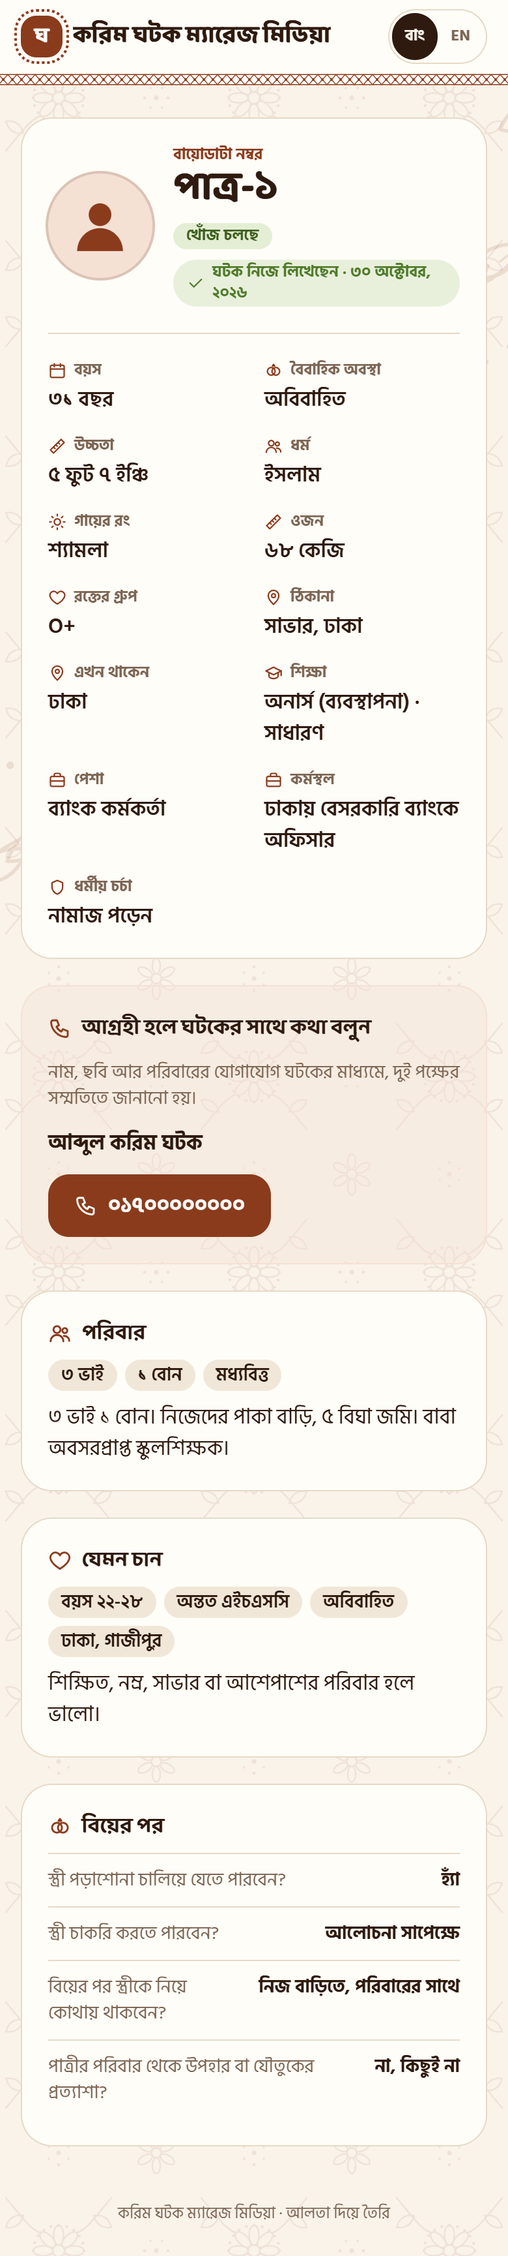
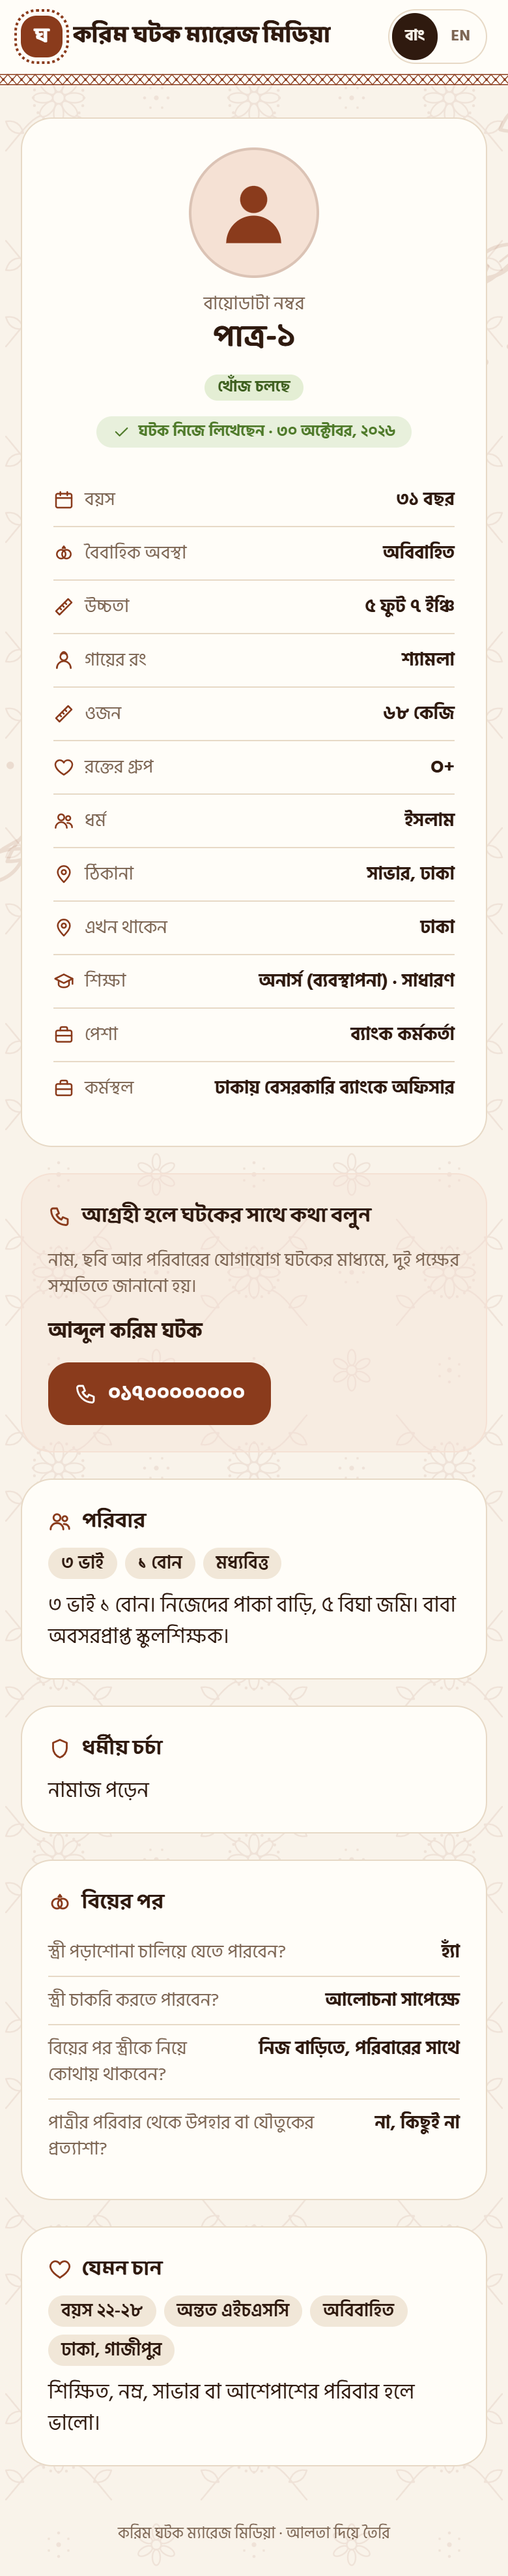
Revert "style: the family's biodata view reads at a glance"
This reverts commit af5ddd22b74a9989cfe3493edfc7c3aa593ae40e.

diff --git a/components/biodata.tsx b/components/biodata.tsx
@@ -81,64 +81,57 @@ export function BiodataFormAside({ site, t }: { site: PublicSite | null; t: T })
 }
 
 /**
- * A biodata as a family sees it. First a summary card: the number, the status, the ghotok's check, and every fact
- * in a grid that reads at a glance. Then the family's own words: family, the match hoped for, the "after marriage"
- * answers. Whatever the page passes as `aside` (how to reach the ghotok) sits right under the summary on a phone and
- * stays in view down the right on a wide screen. Used by the public link and the signed-in view.
+ * A biodata as a family sees it: a card with the number, the ghotok's check and the facts asked first, then the
+ * family, religious practice, the "after marriage" answers and the match hoped for, then whatever the page puts
+ * beside it (how to reach the ghotok). Used by the public link and the signed-in view.
  */
 export function FamilyBiodata({ b, t, aside }: { b: FamilyView; t: T; aside?: ReactNode }) {
-  const facts: { icon: IconName; label: string; value: string; wide?: boolean }[] = [
-    { icon: "calendar", label: t.t("facts.age"), value: t.years(ageFromYear(b.birthYear)) },
-    { icon: "rings", label: t.t("facts.marital"), value: t.t(`marital.${b.maritalStatus}`) },
-    { icon: "ruler", label: t.t("facts.height"), value: b.heightCm ? t.height(b.heightCm) : "" },
-    { icon: "people", label: t.t("facts.religion"), value: t.t(`religion.${b.religion}`) },
-    { icon: "sun", label: t.t("facts.complexion"), value: b.complexion ? t.t(`complexion.${b.complexion}`) : "" },
-    { icon: "ruler", label: t.t("facts.weight"), value: b.weightKg ? t.t("facts.kg", { n: b.weightKg }) : "" },
-    { icon: "heart", label: t.t("facts.blood"), value: b.bloodGroup ?? "" },
-    { icon: "location", label: t.t("facts.address"), value: [b.upazila, b.district].filter(Boolean).join(", ") },
-    { icon: "location", label: t.t("facts.presentAddress"), value: b.presentAddress ?? "" },
-    { icon: "school", label: t.t("facts.education"), value: [b.education, b.educationMedium ? t.t(`medium.${b.educationMedium}`) : null].filter(Boolean).join(" · ") },
-    { icon: "briefcase", label: t.t("facts.profession"), value: b.profession ?? "" },
-    { icon: "briefcase", label: t.t("facts.workplace"), value: b.workplace ?? "" },
-    { icon: "shield", label: t.t("facts.religiousPractice"), value: b.religiousPractice ?? "", wide: true },
+  const facts: [IconName, string, string][] = [
+    ["calendar", t.t("facts.age"), t.years(ageFromYear(b.birthYear))],
+    ["rings", t.t("facts.marital"), t.t(`marital.${b.maritalStatus}`)],
+    ["ruler", t.t("facts.height"), b.heightCm ? t.height(b.heightCm) : ""],
+    ["bride", t.t("facts.complexion"), b.complexion ? t.t(`complexion.${b.complexion}`) : ""],
+    ["ruler", t.t("facts.weight"), b.weightKg ? t.t("facts.kg", { n: b.weightKg }) : ""],
+    ["heart", t.t("facts.blood"), b.bloodGroup ?? ""],
+    ["people", t.t("facts.religion"), t.t(`religion.${b.religion}`)],
+    ["location", t.t("facts.address"), [b.upazila, b.district].filter(Boolean).join(", ")],
+    ["location", t.t("facts.presentAddress"), b.presentAddress ?? ""],
+    ["school", t.t("facts.education"), [b.education, b.educationMedium ? t.t(`medium.${b.educationMedium}`) : null].filter(Boolean).join(" · ")],
+    ["briefcase", t.t("facts.profession"), b.profession ?? ""],
+    ["briefcase", t.t("facts.workplace"), b.workplace ?? ""],
   ];
   const family = familyTags(b, t);
   const after = afterMarriageRows(b, t);
   const wants = expectationTags(b, t);
   return (
-    <div className="flex flex-col gap-5 lg:grid lg:grid-cols-[minmax(0,1fr)_20rem] lg:grid-rows-[auto_1fr] lg:items-start lg:gap-6">
-      <section className="flex flex-col gap-5 rounded-3xl border border-line bg-surface p-5 lg:col-start-1 lg:row-start-1 lg:p-6">
-        <div className="flex items-center gap-4 lg:gap-5">
-          <Avatar kind={b.kind} className="size-20 lg:size-24" />
-          <div className="min-w-0 flex-1">
-            <p className="text-xs font-bold text-primary">{t.t("bv.number")}</p>
-            <p className="font-display text-3xl font-extrabold lg:text-4xl">{t.biodataNo(b.kind, b.code)}</p>
-            <div className="mt-2 flex flex-wrap items-center gap-2">
-              <ProfileBadge status={b.status} />
-              <span className="inline-flex items-center gap-1.5 rounded-full bg-pos-soft px-2.5 py-0.5 text-xs font-bold text-pos"><Icon name="check" size={14} />{trustLine(b, t)}</span>
-            </div>
-          </div>
+    <div className="flex flex-col gap-5 lg:grid lg:grid-cols-[18rem_1fr] lg:items-start lg:gap-6">
+      <section className="flex flex-col items-center gap-3 rounded-3xl border border-line bg-surface p-6 text-center">
+        <Avatar kind={b.kind} className="size-24" />
+        <div>
+          <p className="text-sm text-muted">{t.t("bv.number")}</p>
+          <h1 className="font-display text-2xl font-bold">{t.biodataNo(b.kind, b.code)}</h1>
         </div>
-        <dl className="grid grid-cols-2 gap-x-4 gap-y-4 border-t border-line pt-5 sm:grid-cols-3 lg:grid-cols-4">
-          {facts.filter((f) => f.value).map(({ icon, label, value, wide }) => (
-            <div key={label} className={`min-w-0 ${wide ? "col-span-2 sm:col-span-3 lg:col-span-4" : ""}`}>
-              <dt className="flex items-center gap-1.5 text-xs font-bold text-muted"><Icon name={icon} size={14} className="text-primary" />{label}</dt>
-              <dd className="mt-0.5 font-semibold wrap-break-word">{value}</dd>
+        <ProfileBadge status={b.status} />
+        <p className="inline-flex items-center gap-1.5 rounded-full bg-pos-soft px-3 py-1 text-xs font-bold text-pos"><Icon name="check" size={14} />{trustLine(b, t)}</p>
+        <dl className="mt-2 flex w-full flex-col divide-y divide-line text-sm">
+          {facts.filter(([, , value]) => value).map(([icon, label, value]) => (
+            <div key={label} className="flex items-center gap-3 py-2.5">
+              <dt className="flex flex-1 items-center gap-2 text-muted"><Icon name={icon} size={16} className="text-primary" />{label}</dt>
+              <dd className="text-right font-bold">{value}</dd>
             </div>
           ))}
         </dl>
       </section>
 
-      {aside ? <div className="flex flex-col gap-4 lg:sticky lg:top-24 lg:col-start-2 lg:row-start-1 lg:row-span-2">{aside}</div> : null}
-
-      <div className="grid gap-5 sm:grid-cols-2 lg:col-start-1 lg:row-start-2">
+      <div className="flex flex-col gap-5">
+        {aside}
         {family.length || b.familyDetails ? <Block icon="people" title={t.t("facts.family")} tags={family} text={b.familyDetails} /> : null}
-        {wants.length || b.expectations ? <Block icon="heart" title={t.t("facts.expectations")} tags={wants} text={b.expectations} /> : null}
+        {b.religiousPractice ? <Block icon="shield" title={t.t("facts.religiousPractice")} text={b.religiousPractice} /> : null}
         {after.length ? (
-          <Block icon="rings" title={t.t("facts.after")} className="sm:col-span-2">
-            <dl className="grid gap-x-8 sm:grid-cols-2">
+          <Block icon="rings" title={t.t("facts.after")}>
+            <dl className="flex flex-col divide-y divide-line text-sm">
               {after.map(([q, a]) => (
-                <div key={q} className="flex items-start justify-between gap-4 border-t border-line py-2.5 text-sm">
+                <div key={q} className="flex items-start justify-between gap-4 py-2">
                   <dt className="text-muted">{q}</dt>
                   <dd className="shrink-0 text-right font-bold">{a}</dd>
                 </div>
@@ -146,6 +139,7 @@ export function FamilyBiodata({ b, t, aside }: { b: FamilyView; t: T; aside?: Re
             </dl>
           </Block>
         ) : null}
+        {wants.length || b.expectations ? <Block icon="heart" title={t.t("facts.expectations")} tags={wants} text={b.expectations} /> : null}
       </div>
     </div>
   );
@@ -173,9 +167,9 @@ export function FamilyBiodataCard({ b, t }: { b: FamilyView & { id: string }; t:
 }
 
 /** One titled card: a row of chips, a paragraph, or anything else, in that order. */
-function Block({ icon, title, tags = [], text, children, className = "" }: { icon: IconName; title: string; tags?: string[]; text?: string | null; children?: ReactNode; className?: string }) {
+function Block({ icon, title, tags = [], text, children }: { icon: IconName; title: string; tags?: string[]; text?: string | null; children?: ReactNode }) {
   return (
-    <section className={`flex flex-col gap-2 rounded-3xl border border-line bg-surface p-5 ${className}`}>
+    <section className="flex flex-col gap-2 rounded-3xl border border-line bg-surface p-5">
       <h2 className="flex items-center gap-2 font-display text-base font-bold"><Icon name={icon} size={18} className="text-primary" />{title}</h2>
       {tags.length ? (
         <p className="flex flex-wrap gap-1.5">
